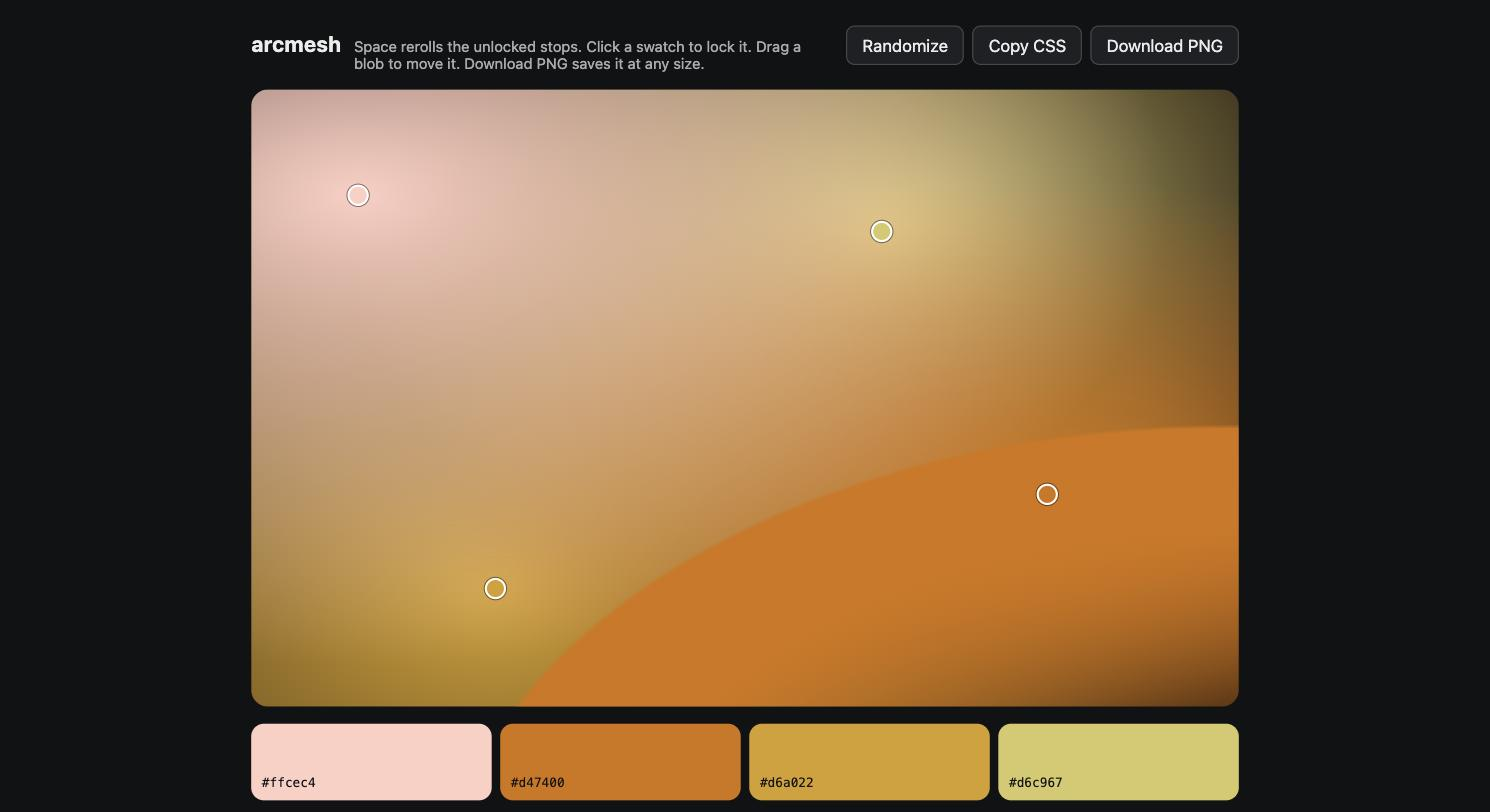
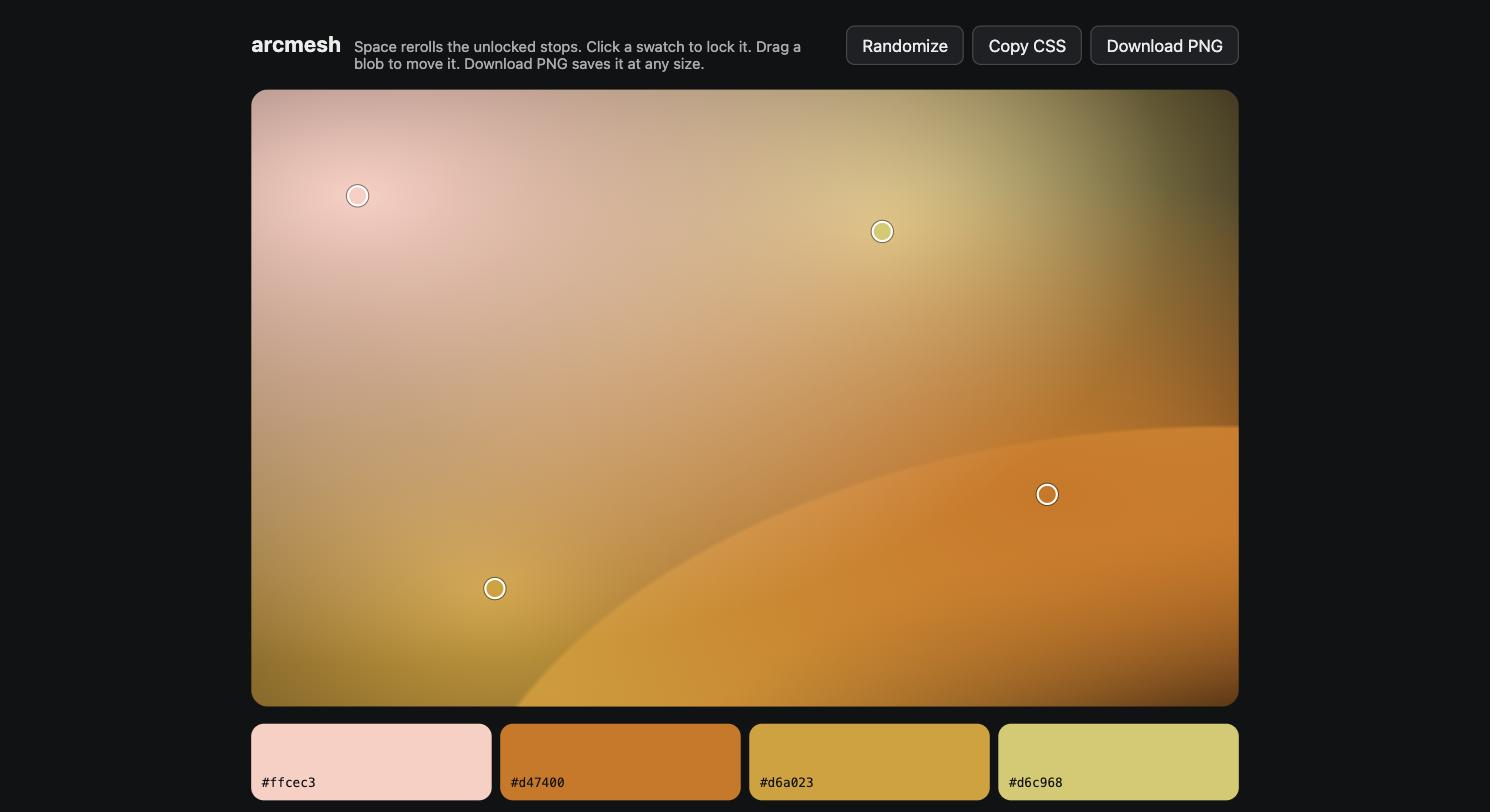
Paint creases below the blobs so they read as folds, not discs
Above the blobs a crease was an opaque disc with a hard rim. Below them
the blobs' soft falloffs veil it, so the hard edge shows in the gaps
between blob cores and dissolves under them. Same layer list, so the
CSS and the PNG move together; no codec change. README hero recaptured
at the same seed.

diff --git a/src/render/canvas.test.ts b/src/render/canvas.test.ts
@@ -65,7 +65,7 @@ describe('pngFileName', () => {
 });
 
 describe('drawPalette', () => {
-  it('fills the background, then paints layers bottom-up, creases last', () => {
+  it('fills the background, then paints layers bottom-up, creases first', () => {
     const { ctx, ops, gradients } = fakeContext();
     drawPalette(ctx, palette, 200, 100);
 
@@ -73,15 +73,17 @@ describe('drawPalette', () => {
     expect(gradients).toHaveLength(5);
 
     const first = gradients[0].stops;
-    expect(first).toHaveLength(2);
-    expect(first[0][0]).toBe(0);
-    expect(first[0][1]).toMatch(/^rgba\(\d+, \d+, \d+, 1\)$/);
-    expect(first[1][0]).toBe(FALLOFF[3] / 100);
-    expect(first[1][1]).toMatch(/, 0\)$/);
+    expect(first.map(([offset]) => offset)).toEqual([0, 0.4, 0.6, 0.992, 1]);
+    expect(first.map(([, color]) => color.endsWith(', 1)'))).toEqual([false, false, true, true, false]);
 
-    const last = gradients[4].stops;
-    expect(last.map(([offset]) => offset)).toEqual([0, 0.4, 0.6, 0.992, 1]);
-    expect(last.map(([, color]) => color.endsWith(', 1)'))).toEqual([false, false, true, true, false]);
+    const second = gradients[1].stops;
+    expect(second).toHaveLength(2);
+    expect(second[0][0]).toBe(0);
+    expect(second[0][1]).toMatch(/^rgba\(\d+, \d+, \d+, 1\)$/);
+    expect(second[1][0]).toBe(FALLOFF[3] / 100);
+    expect(second[1][1]).toMatch(/, 0\)$/);
+
+    expect(gradients[4].stops[1][0]).toBe(FALLOFF[0] / 100);
   });
 
   it('positions and scales each gradient in pixels', () => {
@@ -89,13 +91,13 @@ describe('drawPalette', () => {
     drawPalette(ctx, palette, 200, 100);
     const translates = ops.filter((op) => op.kind === 'translate').map((op) => op.args);
     const scales = ops.filter((op) => op.kind === 'scale').map((op) => op.args);
-    // Bottom-up: stops 3, 2, 1, 0, then the crease.
-    expect(translates[0]).toEqual([140, 75]);
-    expect(scales[0]).toEqual([140 * Math.SQRT2, 75 * Math.SQRT2]);
-    expect(translates[4]).toEqual([260, 20]);
-    expect(scales[4]).toEqual([180, 90]);
+    // Bottom-up: the crease, then stops 3, 2, 1, 0.
+    expect(translates[0]).toEqual([260, 20]);
+    expect(scales[0]).toEqual([180, 90]);
+    expect(translates[1]).toEqual([140, 75]);
+    expect(scales[1]).toEqual([140 * Math.SQRT2, 75 * Math.SQRT2]);
     const rects = ops.filter((op) => op.kind === 'fillRect').slice(1).map((op) => op.args.slice(0, 4));
-    expect(rects[4]).toEqual([-260 / 180, -20 / 90, 200 / 180, 100 / 90]);
+    expect(rects[0]).toEqual([-260 / 180, -20 / 90, 200 / 180, 100 / 90]);
     expect(ops.filter((op) => op.kind === 'save')).toHaveLength(5);
     expect(ops.filter((op) => op.kind === 'restore')).toHaveLength(5);
   });

diff --git a/src/render/css.test.ts b/src/render/css.test.ts
@@ -69,7 +69,7 @@ describe('paletteToCss', () => {
     }
   });
 
-  it('emits a crease as an explicit ellipse with a hard edge, listed first', () => {
+  it('emits a crease as an explicit ellipse with a hard edge, listed after the blobs', () => {
     const withCrease = paletteToCss({
       ...palette,
       creases: [{ stop: 1, cx: 1.3, cy: 0.2, r: 0.9, t0: 0.4, t1: 0.6 }],
@@ -78,7 +78,7 @@ describe('paletteToCss', () => {
     const expected = `radial-gradient(90.0% 90.0% at 130.0% 20.0%, ${hex}00 0%, ${hex}00 40%, ${hex} 60%, ${hex} 99.2%, ${hex}00 100%)`;
     expect(withCrease).toContain(expected);
     const firstBlock = withCrease.slice(withCrease.indexOf('background-image:'), withCrease.indexOf('background-image:', withCrease.indexOf('background-image:') + 1));
-    expect(firstBlock.indexOf(expected)).toBeLessThan(firstBlock.indexOf('at 25.0% 25.0%'));
+    expect(firstBlock.indexOf(expected)).toBeGreaterThan(firstBlock.indexOf('at 70.0% 75.0%'));
     expect(withCrease.match(/radial-gradient\(/g)).toHaveLength(10);
     expect(withCrease).toContain(`${formatOklch(palette.stops[1], 0)} 40%, ${formatOklch(palette.stops[1])} 60%`);
   });

diff --git a/src/render/layers.ts b/src/render/layers.ts
@@ -62,10 +62,14 @@ export function creaseLayer(crease: Crease, stop: Stop): Layer {
   };
 }
 
-// Top layer first, the order CSS lists them in. Creases paint above blobs.
+// Top layer first, the order CSS lists them in. Creases paint below the
+// blobs: painted above them a crease is an opaque disc with a hard rim, and
+// below them the blobs' soft falloffs veil it, so the hard edge shows in the
+// gaps between blob cores and dissolves under them, which is how a fold in
+// the surface reads.
 export function paletteToLayers(palette: Palette): Layer[] {
   return [
-    ...palette.creases.map((crease) => creaseLayer(crease, palette.stops[crease.stop])),
     ...palette.stops.map((stop, index) => blobLayer(stop, index)),
+    ...palette.creases.map((crease) => creaseLayer(crease, palette.stops[crease.stop])),
   ];
 }

diff --git a/src/render/layers.test.ts b/src/render/layers.test.ts
@@ -49,16 +49,16 @@ describe('creaseLayer', () => {
 });
 
 describe('paletteToLayers', () => {
-  it('lists creases first, then blobs in stop order', () => {
+  it('lists blobs in stop order, then creases underneath', () => {
     const layers = paletteToLayers(palette);
     expect(layers).toHaveLength(5);
-    expect(layers[0].size).toEqual({ rx: 0.9, ry: 0.9 });
-    expect(layers.slice(1).map((l) => [l.cx, l.cy])).toEqual([
+    expect(layers.slice(0, 4).map((l) => [l.cx, l.cy])).toEqual([
       [0.25, 0.25],
       [0.75, 0.3],
       [0.2, 0.8],
       [0.7, 0.75],
     ]);
+    expect(layers[4].size).toEqual({ rx: 0.9, ry: 0.9 });
   });
 
   it('has no crease layers when the palette has none', () => {

diff --git a/README.md b/README.md
@@ -12,7 +12,7 @@ Mesh gradient tools usually make you pick the colors, which is the hard part. Th
 
 arcmesh picks hues on one arc of the color wheel, 30 to 90 degrees wide, assigns lightness along a ramp so every mesh has a bright region and a deep region, and lets an occasional accent sit opposite the arc at reduced chroma so it blends without going muddy. Everything happens in OKLCH, where equal numeric steps read as equal visual steps, and every color is clamped into the sRGB gamut by binary search on chroma rather than by clipping channels.
 
-Some palettes carry a crease, the fold a real mesh gradient makes: a hard curved edge on one side of a color region, soft on the others. Each crease is one more radial gradient, an ellipse of the stop's color centered off the canvas with a hard stop at its edge, so it is still plain CSS.
+Some palettes carry a crease, the fold a real mesh gradient makes: a hard curved edge on one side of a color region, soft on the others. Each crease is one more radial gradient, an ellipse of the stop's color centered off the canvas with a hard stop at its edge, painted below the blobs so their soft falloffs veil it, so it is still plain CSS.
 
 The preview is a stack of CSS radial-gradients applied through a style element, and the copied CSS is that same string. What you see is what you paste.
 
